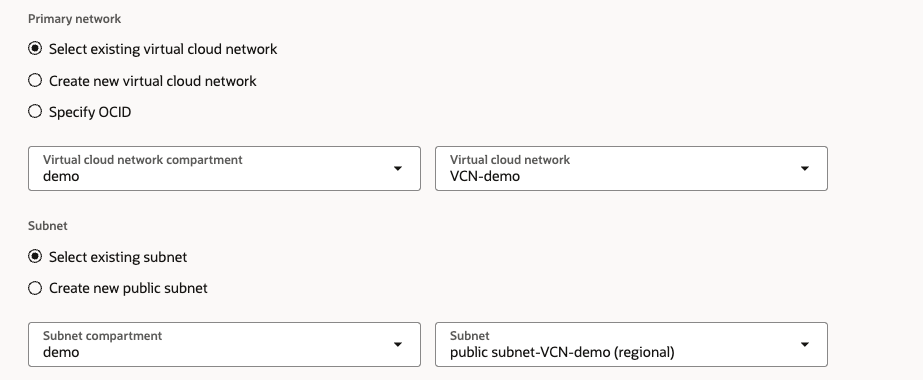
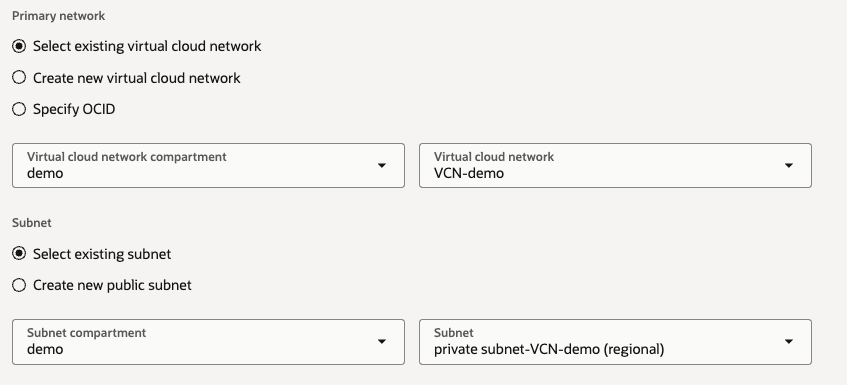
v3

diff --git a/README.md b/README.md
@@ -73,7 +73,7 @@
 
 8. Click **Next** to reach **Networking**
 
-9. For **Primary Network**, select the VCN we created earlier today. Under **Subnet**, choose its Public Subnet.
+9. For **Primary Network**, select the VCN we created earlier today. Under Subnet, choose its **Private Subnet**.
 
      ![drawing](./SS/compute/6.png)
 
